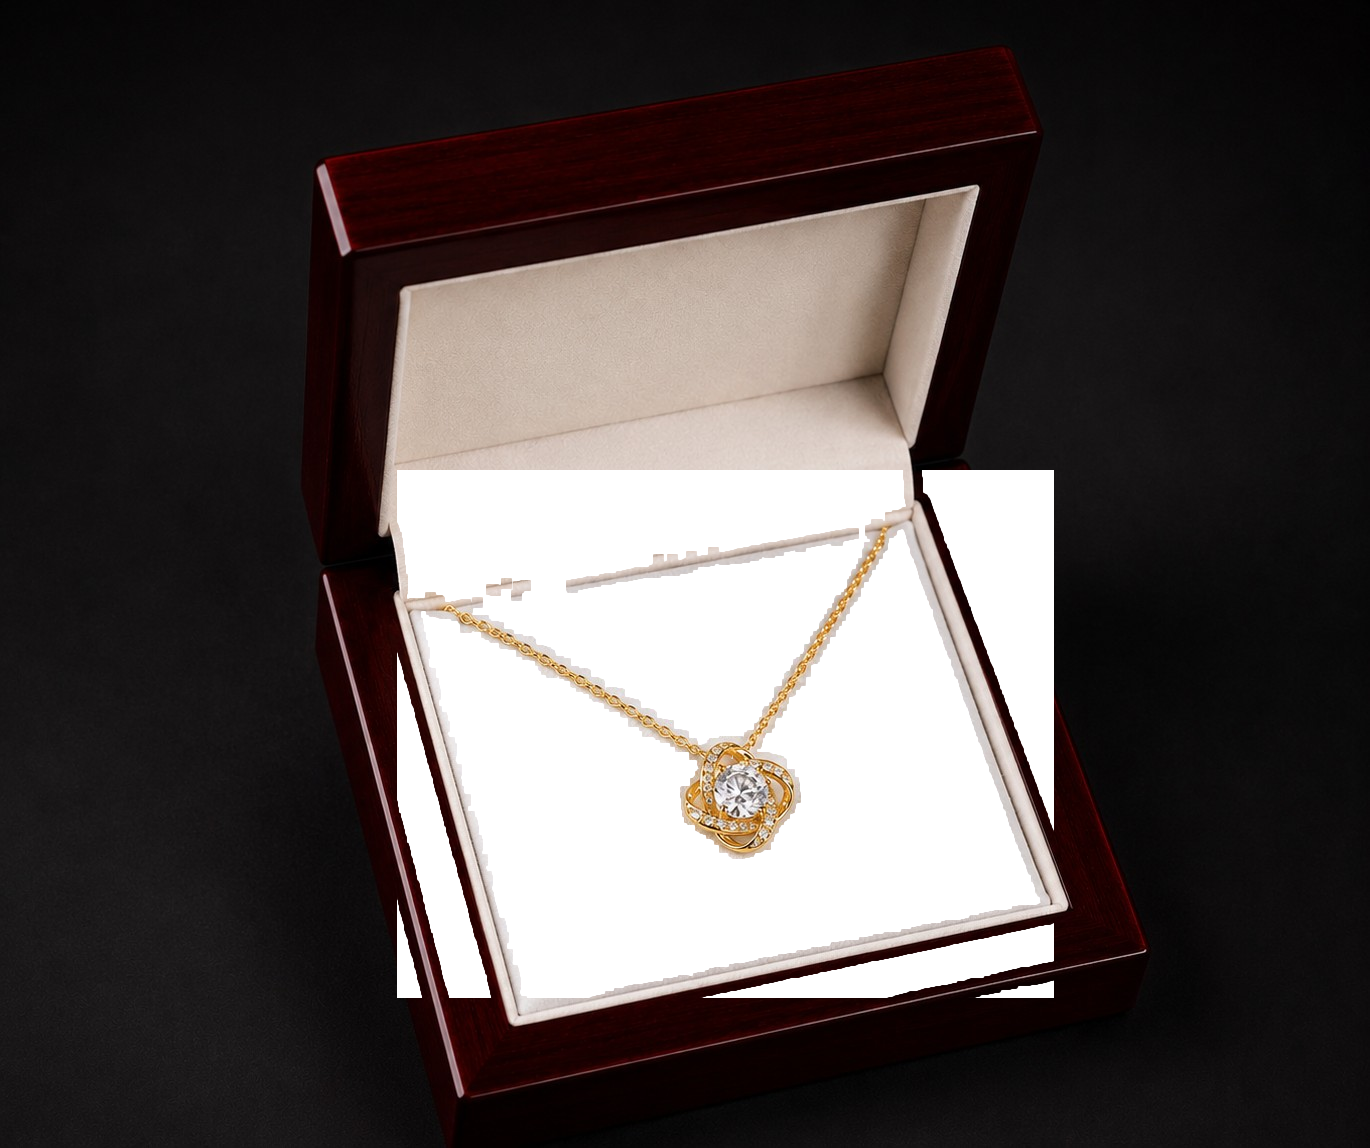
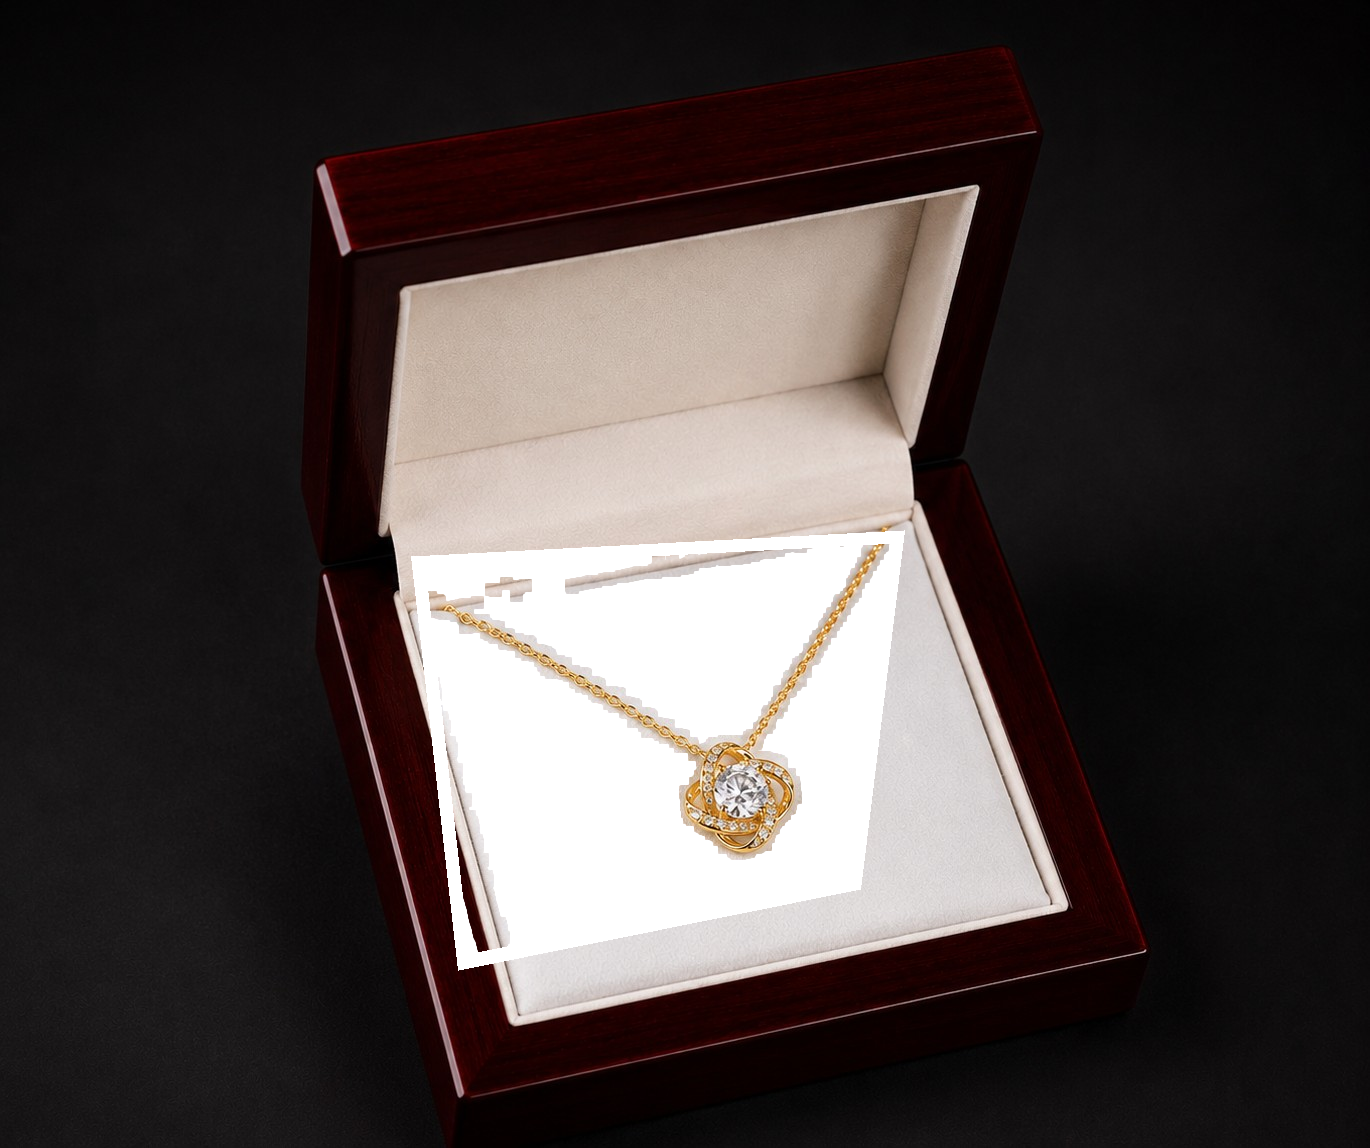
Retrace the card/cushion mask against the real box photo's true corners
Replace the fragile per-row edge-scanning mask (which produced a jagged
triangular notch and a dashed-looking necklace chain) with a hand-verified
quadrilateral traced directly against grid overlays of the actual box
photo. The same quad works across all four finish/box photos since they
share one camera setup, so the card now sits flush against the true inner
cushion edges with only a thin natural margin, matching the reference
mockup. Repositioned the message text to the extra vertical clearance the
corrected corners free up.

Changed region(s): [[0.2759, 0.3963, 0.7664, 0.8841], [0.3066, 0.5183, 0.3372, 0.5488]]

diff --git a/zaviqu-homepage/css/style.css b/zaviqu-homepage/css/style.css
@@ -1076,17 +1076,18 @@ a { color: inherit; text-decoration: none; }
 
 .gp-hero-card__message {
   position: absolute;
-  left: 8%;
-  right: 8%;
-  bottom: 12%;
+  left: 24%;
+  right: 32%;
+  bottom: 28%;
+  overflow: hidden;
   font-family: var(--font-display);
   font-style: italic;
-  font-size: clamp(0.75rem, 1.5vw, 1rem);
-  line-height: 1.5;
+  font-size: clamp(0.55rem, 1vw, 0.75rem);
+  line-height: 1.3;
   text-align: center;
   color: #2a2620;
-  white-space: pre-wrap;
-  word-break: break-word;
+  white-space: nowrap;
+  text-overflow: ellipsis;
   transition: color 250ms ease;
 }
 
